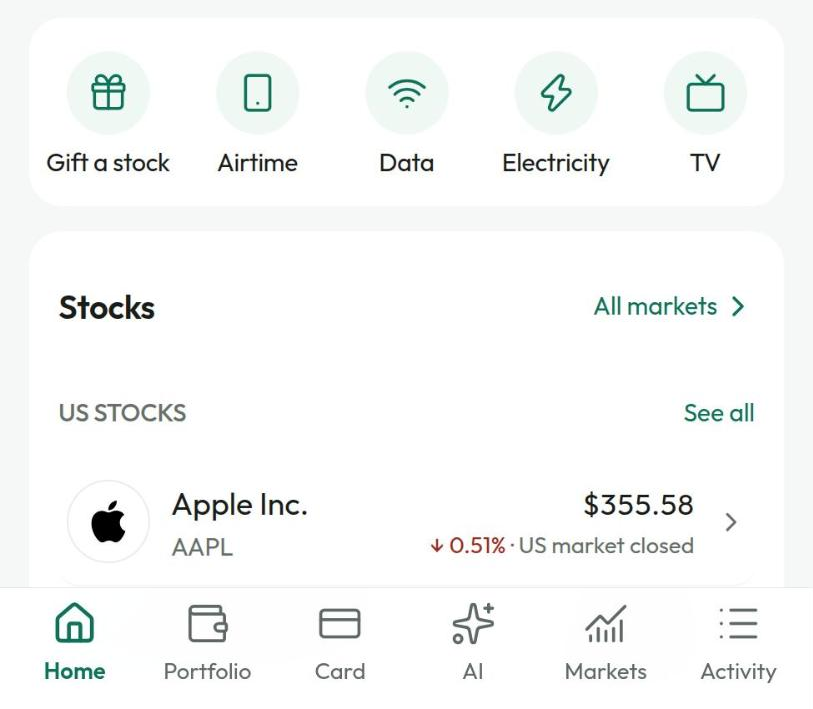
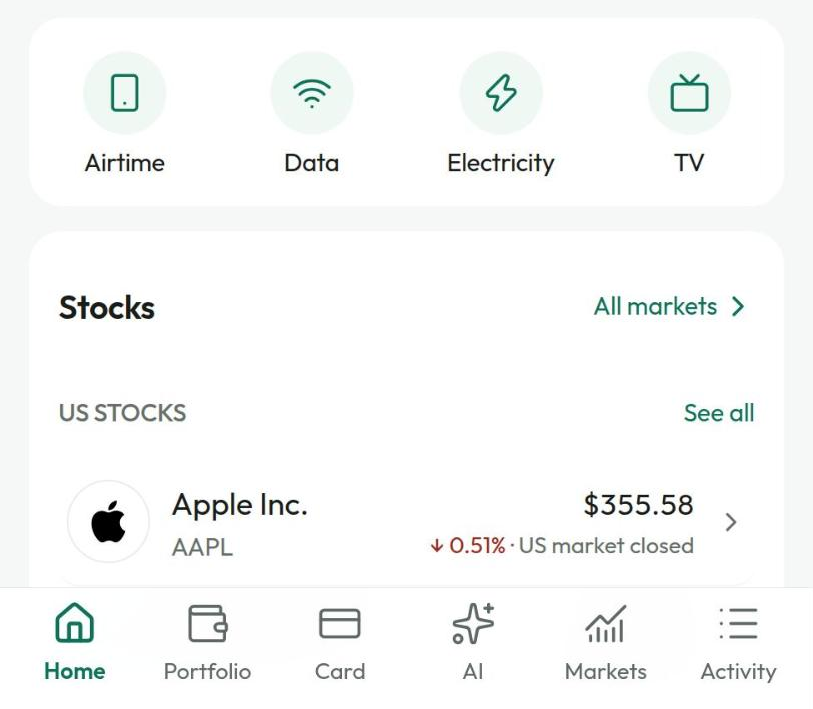
Update preview to the latest design
Claude-Session: https://claude.ai/code/session_016R4JVdbeXMpP6r29tmMcYc

diff --git a/index.html b/index.html
@@ -66,7 +66,27 @@ a{color:#12805f}a:hover{color:#0b3d31}
 @keyframes tk-reveal{to{background-position:0 0}}
 .topbar{position:relative;z-index:20}
 @media (prefers-reduced-motion:reduce){.track{animation:none}.reveal{animation:none;background-position:0 0}}
+
+
+.aq-scene{position:absolute;inset:0;padding:6px 16px;display:flex;flex-direction:column;gap:12px;opacity:0;animation:aqScene 16s infinite both}
+.aq-q{align-self:flex-end;max-width:85%;padding:9px 14px;border-radius:16px;background:#e6ebe9;color:#141a18;font-size:13.5px;line-height:1.4;opacity:0;animation:aqQ 16s infinite both}
+.aq-ai{opacity:0;animation:aqAI 16s infinite both;animation-delay:inherit}
+.aq-scene:nth-child(1) .aq-ai{animation-delay:0s}.aq-scene:nth-child(2) .aq-ai{animation-delay:8s}
+.aq-status{display:flex;align-items:center;gap:6px;margin-top:6px;font-size:12.5px;color:#5b6866;animation:aqS 16s infinite both}
+.aq-dots{display:inline-flex;gap:3px}.aq-dots i{width:5px;height:5px;border-radius:999px;background:#12805f;animation:aqDot 1s infinite}
+.aq-dots i:nth-child(2){animation-delay:.15s}.aq-dots i:nth-child(3){animation-delay:.3s}
+.aq-a{opacity:0;max-height:0;overflow:hidden;animation:aqA 16s infinite both}
+@keyframes aqScene{0%{opacity:0}1.5%{opacity:1}47%{opacity:1}49.5%{opacity:0}100%{opacity:0}}
+@keyframes aqQ{0%,3%{opacity:0;transform:translateY(8px)}6%,100%{opacity:1;transform:none}}
+@keyframes aqAI{0%,8%{opacity:0}9.5%,100%{opacity:1}}
+@keyframes aqS{0%,19%{opacity:1;max-height:30px}20.5%,100%{opacity:0;max-height:0;margin:0}}
+@keyframes aqA{0%,20%{opacity:0;max-height:0;transform:translateY(6px)}23%,100%{opacity:1;max-height:400px;transform:none}}
+@keyframes aqDot{0%,100%{opacity:.3}50%{opacity:1}}
+@media (prefers-reduced-motion:reduce){.aq-scene,.aq-q,.aq-ai,.aq-status,.aq-a,.aq-dots i{animation:none}.aq-scene:first-child,.aq-scene:first-child .aq-q,.aq-scene:first-child .aq-ai,.aq-scene:first-child .aq-a{opacity:1;max-height:none}.aq-status{display:none}}
 @media (max-width:760px){
+.aq-phone{width:320px !important}
+.ai-panel{padding:36px 22px !important}
+.ai-h{font-size:32px !important}
 .st-line{display:none !important}
 .st-num{display:block !important;margin-bottom:10px}
 .st-card > div:first-child{padding:28px 22px 24px !important}
@@ -277,7 +297,52 @@ a{color:#12805f}a:hover{color:#0b3d31}
 <h3 class="d h3" style="margin: 0">Pay bills.</h3>
 <p class="body" style="margin: 0">Airtime, data, power and TV in a few taps.</p>
 </div>
-<div style="display: flex; justify-content: center; align-self: end"><div class="peek bills-peek" style="display: flex; justify-content: center; height: 230px; margin: 0; overflow: hidden"><div style="flex: none; width: 290px; height: 600px; padding: 9px; border-radius: 48px; background: #0a0d0c; border: 1px solid #2a3330; box-shadow: 0 30px 60px rgba(3,32,26,0.14)"><div style="position: relative; height: 100%; padding-top: 32px; border-radius: 39px; overflow: hidden; background: #f6f8f7"><span aria-hidden="true" style="position: absolute; left: 50%; top: 9px; width: 78px; height: 22px; margin-left: -39px; border-radius: 999px; background: #0a0d0c"></span><img src="assets/app-bills-peek.png" alt="Tokkenly app shortcuts for gift a stock, airtime, data, electricity and TV" style="display: block; width: 100%"></div></div></div></div>
+<div style="display: flex; justify-content: center; align-self: end"><div class="peek bills-peek" style="display: flex; justify-content: center; height: 230px; margin: 0; overflow: hidden"><div style="flex: none; width: 290px; height: 600px; padding: 9px; border-radius: 48px; background: #0a0d0c; border: 1px solid #2a3330; box-shadow: 0 30px 60px rgba(3,32,26,0.14)"><div style="position: relative; height: 100%; padding-top: 32px; border-radius: 39px; overflow: hidden; background: #f6f8f7"><span aria-hidden="true" style="position: absolute; left: 50%; top: 9px; width: 78px; height: 22px; margin-left: -39px; border-radius: 999px; background: #0a0d0c"></span><img src="assets/app-bills-peek.png" alt="Tokkenly app shortcuts for airtime, data, electricity and TV" style="display: block; width: 100%"></div></div></div></div>
+</div>
+</div>
+</section>
+
+<!-- ===== AI ===== -->
+<section class="sec" style="padding-top: 0">
+<div class="wrap">
+<div class="panel split ai-panel" style="padding: 56px; align-items: center">
+<div style="display: flex; flex-direction: column; gap: 16px">
+<span style="display: inline-flex; width: 56px; height: 56px; border-radius: 16px; background: #ffffff; color: #12805f; align-items: center; justify-content: center; box-shadow: 0 6px 16px rgba(3,32,26,0.06)"><svg width="22" height="22" viewBox="0 0 24 24" fill="none" stroke="currentColor" stroke-width="1.8" stroke-linecap="round" stroke-linejoin="round" aria-hidden="true"><path d="M12 3l1.8 4.7L18.5 9.5l-4.7 1.8L12 16l-1.8-4.7L5.5 9.5l4.7-1.8z"></path><path d="M18.5 15.5l.8 2 2 .8-2 .8-.8 2-.8-2-2-.8 2-.8z"></path></svg></span>
+<span class="mono" style="font-family: 'Geist Mono', monospace; font-size: 13px; letter-spacing: 0.1em; color: #0b5c48">TOKKENLY AI</span>
+<h3 class="d ai-h" style="margin: 0; font-size: 46px; line-height: 1.06; font-weight: 700; letter-spacing: -0.03em; color: #141a18">Ask about your money in everyday words.</h3>
+<p class="body" style="margin: 0">Find the right stock, track your spending or plan a budget. Answers come from your own account.</p>
+<div style="display: flex; flex-wrap: wrap; gap: 8px; margin-top: 6px"><span style="padding: 10px 16px; border-radius: 999px; background: #ffffff; border: 1px solid #e3e9e6; font-size: 15px; font-weight: 500; color: #141a18; white-space: nowrap">What did I spend this month?</span><span style="padding: 10px 16px; border-radius: 999px; background: #ffffff; border: 1px solid #e3e9e6; font-size: 15px; font-weight: 500; color: #141a18; white-space: nowrap">Plan my December budget</span><span style="padding: 10px 16px; border-radius: 999px; background: #ffffff; border: 1px solid #e3e9e6; font-size: 15px; font-weight: 500; color: #141a18; white-space: nowrap">Help me choose a stock</span></div>
+<div style="display: flex; align-items: center; gap: 8px; margin-top: 8px; font-size: 14px; color: #5b6866"><span style="display: inline-flex; color: #12805f"><svg width="16" height="16" viewBox="0 0 24 24" fill="none" stroke="currentColor" stroke-width="2" stroke-linecap="round" stroke-linejoin="round" aria-hidden="true"><rect x="4.5" y="10.5" width="15" height="10" rx="2.5"></rect><path d="M8 10.5V7.5a4 4 0 0 1 8 0v3"></path></svg></span>Read-only. It can never move your money.</div>
+</div>
+<div style="display: flex; justify-content: center"><div class="aq-phone" style="width: 330px; height: 680px; padding: 10px; border-radius: 52px; background: #0a0d0c; border: 1px solid #2a3330; box-shadow: 0 40px 80px rgba(3,32,26,0.16)">
+<div style="position: relative; display: flex; flex-direction: column; height: 100%; border-radius: 42px; overflow: hidden; background: #f6f8f7; font-family: Outfit, sans-serif">
+<span aria-hidden="true" style="position: absolute; left: 50%; top: 10px; width: 84px; height: 24px; margin-left: -42px; border-radius: 999px; background: #0a0d0c; z-index: 2"></span>
+<div style="display: flex; align-items: center; justify-content: space-between; padding: 46px 18px 10px"><div style="display: flex; align-items: center; gap: 7px; font-size: 19px; font-weight: 700; color: #141a18"><svg width="20" height="20" viewBox="0 0 24 24" fill="none" stroke="#12805f" stroke-width="1.8" stroke-linecap="round" stroke-linejoin="round" aria-hidden="true"><path d="M10 3l1.6 4.4L16 9l-4.4 1.6L10 15l-1.6-4.4L4 9l4.4-1.6z"></path><path d="M18 13l.9 2.1L21 16l-2.1.9L18 19l-.9-2.1L15 16l2.1-.9z"></path><circle cx="5.5" cy="19.5" r="1.5"></circle></svg>Ask AI</div><span style="display: inline-flex; align-items: center; gap: 4px; padding: 6px 10px; border-radius: 999px; border: 1px solid #dfe5e2; background: #ffffff; font-size: 11px; color: #141a18">+ New chat</span></div>
+<div class="aq-stage" style="position: relative; flex: 1; overflow: hidden">
+<div class="aq-scene" style="animation-delay: 0s">
+<div class="aq-q" style="animation-delay: 0s">Help me choose a stock for long-term growth</div>
+<div class="aq-ai"><div style="display: flex; align-items: center; gap: 5px; font-size: 12px; color: #5b6866"><svg width="14" height="14" viewBox="0 0 24 24" fill="none" stroke="#12805f" stroke-width="1.8" stroke-linecap="round" stroke-linejoin="round" aria-hidden="true"><path d="M10 3l1.6 4.4L16 9l-4.4 1.6L10 15l-1.6-4.4L4 9l4.4-1.6z"></path><path d="M18 13l.9 2.1L21 16l-2.1.9L18 19l-.9-2.1L15 16l2.1-.9z"></path><circle cx="5.5" cy="19.5" r="1.5"></circle></svg>AI</div>
+<div class="aq-status" style="animation-delay: 0s"><span class="aq-dots"><i></i><i></i><i></i></span>Looking at markets…</div>
+<div class="aq-a" style="animation-delay: 0s"><p style="font-size: 14px; line-height: 1.5; color: #141a18; margin: 8px 0 0">One stock matches what you told me.</p><p style="font-size: 14px; line-height: 1.5; color: #141a18; margin: 8px 0 0; font-weight: 700">Alphabet (GOOGL)</p><ul style="margin: 2px 0 0; padding-left: 18px; font-size: 13.5px; line-height: 1.45; color: #141a18"><li style="margin-top: 6px"><b>What it is:</b> The company behind Google Search, YouTube and Android.</li><li style="margin-top: 6px"><b>Why it matches:</b> Profitable, and it pays dividends.</li><li style="margin-top: 6px"><b>Main risk:</b> The price can fall for a while.</li></ul><span style="display: inline-flex; align-items: center; gap: 6px; margin-top: 10px; padding: 8px 14px; border-radius: 999px; background: #e3efe9; border: 1px solid #9fc9b6; font-size: 13px; font-weight: 600; color: #141a18">Open GOOGL<svg width="12" height="12" viewBox="0 0 24 24" fill="none" stroke="currentColor" stroke-width="2.2" stroke-linecap="round" stroke-linejoin="round" aria-hidden="true"><path d="M5 12h14"></path><path d="M13 6l6 6-6 6"></path></svg></span><p style="margin: 10px 0 0; font-size: 11.5px; line-height: 1.45; color: #8a9692">This is information to help you decide, not financial advice.</p></div>
+</div>
+</div>
+<div class="aq-scene" style="animation-delay: 8s">
+<div class="aq-q" style="animation-delay: 8s">What did I spend this month?</div>
+<div class="aq-ai"><div style="display: flex; align-items: center; gap: 5px; font-size: 12px; color: #5b6866"><svg width="14" height="14" viewBox="0 0 24 24" fill="none" stroke="#12805f" stroke-width="1.8" stroke-linecap="round" stroke-linejoin="round" aria-hidden="true"><path d="M10 3l1.6 4.4L16 9l-4.4 1.6L10 15l-1.6-4.4L4 9l4.4-1.6z"></path><path d="M18 13l.9 2.1L21 16l-2.1.9L18 19l-.9-2.1L15 16l2.1-.9z"></path><circle cx="5.5" cy="19.5" r="1.5"></circle></svg>AI</div>
+<div class="aq-status" style="animation-delay: 8s"><span class="aq-dots"><i></i><i></i><i></i></span>Looking at your card…</div>
+<div class="aq-a" style="animation-delay: 8s"><p style="font-size: 14px; line-height: 1.5; color: #141a18; margin: 8px 0 0">You spent <b>$412.60</b> this month. Most of it was on your card.</p><ul style="margin: 4px 0 0; padding-left: 18px; font-size: 13.5px; line-height: 1.45; color: #141a18"><li style="margin-top: 6px"><b>Card:</b> $268.40</li><li style="margin-top: 6px"><b>Bills:</b> $96.20</li><li style="margin-top: 6px"><b>Sent:</b> $48.00</li></ul><span style="display: inline-flex; align-items: center; gap: 6px; margin-top: 10px; padding: 8px 14px; border-radius: 999px; background: #e3efe9; border: 1px solid #9fc9b6; font-size: 13px; font-weight: 600; color: #141a18">Activity<svg width="12" height="12" viewBox="0 0 24 24" fill="none" stroke="currentColor" stroke-width="2.2" stroke-linecap="round" stroke-linejoin="round" aria-hidden="true"><path d="M5 12h14"></path><path d="M13 6l6 6-6 6"></path></svg></span></div>
+</div>
+</div>
+</div>
+<div style="padding: 8px 14px 0">
+<div style="font-size: 10.5px; color: #5b6866">What the AI can see</div>
+<div style="display: flex; gap: 5px; margin-top: 6px"><span style="display: inline-flex; align-items: center; gap: 4px; padding: 5px 10px; border-radius: 999px; background: #e3efe9; border: 1px solid #9fc9b6; font-size: 11px; color: #141a18; white-space: nowrap"><svg width="11" height="11" viewBox="0 0 24 24" fill="none" stroke="currentColor" stroke-width="2.6" stroke-linecap="round" stroke-linejoin="round" aria-hidden="true"><path d="M5 12.5l4.5 4.5L19 7.5"></path></svg>Balance &amp; stocks</span><span style="display: inline-flex; align-items: center; gap: 4px; padding: 5px 10px; border-radius: 999px; background: #e3efe9; border: 1px solid #9fc9b6; font-size: 11px; color: #141a18; white-space: nowrap"><svg width="11" height="11" viewBox="0 0 24 24" fill="none" stroke="currentColor" stroke-width="2.6" stroke-linecap="round" stroke-linejoin="round" aria-hidden="true"><path d="M5 12.5l4.5 4.5L19 7.5"></path></svg>Activity</span><span style="display: inline-flex; align-items: center; gap: 4px; padding: 5px 10px; border-radius: 999px; background: #e3efe9; border: 1px solid #9fc9b6; font-size: 11px; color: #141a18; white-space: nowrap"><svg width="11" height="11" viewBox="0 0 24 24" fill="none" stroke="currentColor" stroke-width="2.6" stroke-linecap="round" stroke-linejoin="round" aria-hidden="true"><path d="M5 12.5l4.5 4.5L19 7.5"></path></svg>Card</span></div>
+<div style="display: flex; align-items: center; gap: 8px; margin-top: 8px; padding: 6px 6px 6px 14px; border-radius: 16px; border: 1px solid #dfe5e2; background: #ffffff"><span style="flex: 1; font-size: 13px; color: #8a9692">Ask about your money…</span><svg width="16" height="16" viewBox="0 0 24 24" fill="none" stroke="#5b6866" stroke-width="1.8" stroke-linecap="round" stroke-linejoin="round" aria-hidden="true"><rect x="9" y="3" width="6" height="11" rx="3"></rect><path d="M5 11a7 7 0 0 0 14 0M12 18v3"></path></svg><span style="display: inline-flex; width: 30px; height: 30px; border-radius: 999px; background: #9fc9b6; color: #ffffff; align-items: center; justify-content: center"><svg width="14" height="14" viewBox="0 0 24 24" fill="none" stroke="currentColor" stroke-width="2.2" stroke-linecap="round" stroke-linejoin="round" aria-hidden="true"><path d="M12 19V5"></path><path d="M6 11l6-6 6 6"></path></svg></span></div>
+<div style="margin-top: 6px; font-size: 9.5px; line-height: 1.4; color: #8a9692">Read-only. It can never move your money. · AI can make mistakes, so check important numbers.</div>
+</div>
+<div style="display: flex; justify-content: space-around; padding: 10px 6px 22px; margin-top: 8px; border-top: 1px solid #e3e9e6; background: #ffffff"><div style="display: flex; flex-direction: column; align-items: center; gap: 3px; font-size: 10px; color: #5b6866; font-weight: 400"><svg width="18" height="18" viewBox="0 0 24 24" fill="none" stroke="currentColor" stroke-width="1.6" stroke-linecap="round" stroke-linejoin="round" aria-hidden="true"><path d="M4 11l8-7 8 7v9h-5v-6h-6v6H4z"></path></svg>Home</div><div style="display: flex; flex-direction: column; align-items: center; gap: 3px; font-size: 10px; color: #5b6866; font-weight: 400"><svg width="18" height="18" viewBox="0 0 24 24" fill="none" stroke="currentColor" stroke-width="1.6" stroke-linecap="round" stroke-linejoin="round" aria-hidden="true"><rect x="4" y="6" width="16" height="13" rx="2.5"></rect><path d="M16 12h4"></path></svg>Portfolio</div><div style="display: flex; flex-direction: column; align-items: center; gap: 3px; font-size: 10px; color: #5b6866; font-weight: 400"><svg width="18" height="18" viewBox="0 0 24 24" fill="none" stroke="currentColor" stroke-width="1.6" stroke-linecap="round" stroke-linejoin="round" aria-hidden="true"><rect x="3" y="5.5" width="18" height="13" rx="2.5"></rect><path d="M3 10h18"></path></svg>Card</div><div style="display: flex; flex-direction: column; align-items: center; gap: 3px; font-size: 10px; color: #12805f; font-weight: 600"><svg width="18" height="18" viewBox="0 0 24 24" fill="none" stroke="#12805f" stroke-width="1.8" stroke-linecap="round" stroke-linejoin="round" aria-hidden="true"><path d="M10 3l1.6 4.4L16 9l-4.4 1.6L10 15l-1.6-4.4L4 9l4.4-1.6z"></path><path d="M18 13l.9 2.1L21 16l-2.1.9L18 19l-.9-2.1L15 16l2.1-.9z"></path><circle cx="5.5" cy="19.5" r="1.5"></circle></svg>AI</div><div style="display: flex; flex-direction: column; align-items: center; gap: 3px; font-size: 10px; color: #5b6866; font-weight: 400"><svg width="18" height="18" viewBox="0 0 24 24" fill="none" stroke="currentColor" stroke-width="1.6" stroke-linecap="round" stroke-linejoin="round" aria-hidden="true"><path d="M4 19h16M7 15l4-4 3 3 5-6"></path></svg>Markets</div><div style="display: flex; flex-direction: column; align-items: center; gap: 3px; font-size: 10px; color: #5b6866; font-weight: 400"><svg width="18" height="18" viewBox="0 0 24 24" fill="none" stroke="currentColor" stroke-width="1.6" stroke-linecap="round" stroke-linejoin="round" aria-hidden="true"><path d="M9 6h11M9 12h11M9 18h11M4 6h.01M4 12h.01M4 18h.01"></path></svg>Activity</div></div>
+</div>
+</div></div>
 </div>
 </div>
 </section>
